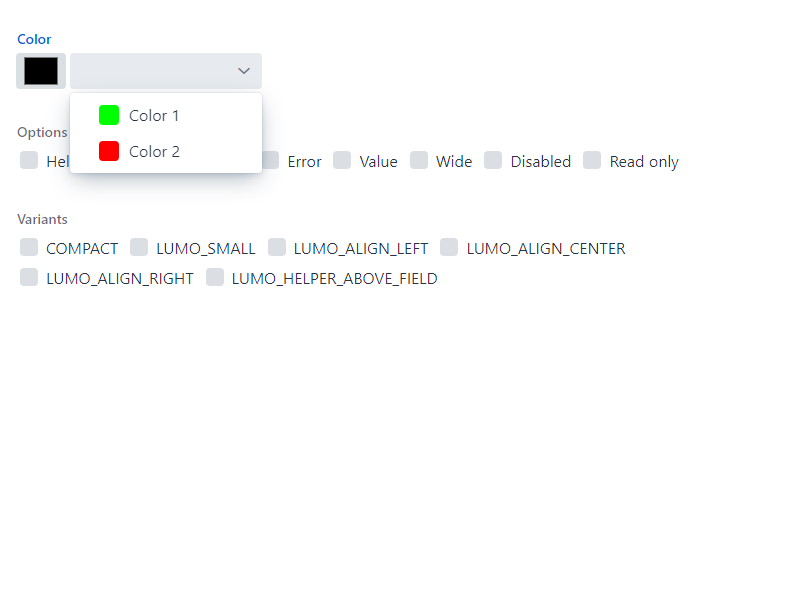
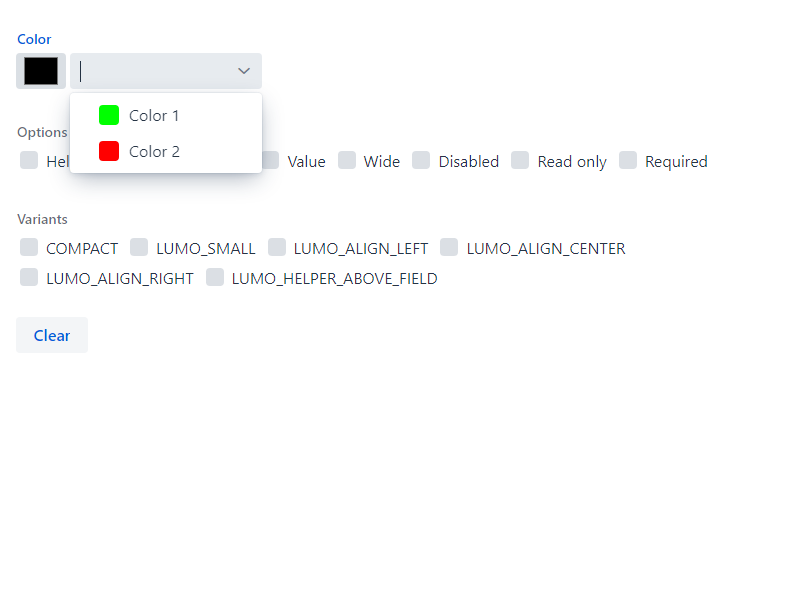
Version 1.2.2: Fixed required indicator

Changed region(s): [[0.5312, 0.24, 0.875, 0.3], [0.3438, 0.24, 0.5, 0.3], [0.0312, 0.54, 0.0938, 0.57]]

diff --git a/src/main/resources/META-INF/resources/frontend/color-picker.ts b/src/main/resources/META-INF/resources/frontend/color-picker.ts
@@ -36,6 +36,8 @@ export class ColorPicker extends ThemableMixin(LitElement) {
   readonly : boolean | undefined = undefined;
   @property({reflect: true})
   disabled : boolean | undefined = undefined;
+  @property({reflect: true})
+  required : boolean | undefined = undefined;
 
   @query("#combobox")
   _comboBox! : ComboBox;
@@ -241,6 +243,7 @@ export class ColorPicker extends ThemableMixin(LitElement) {
           ?readonly=${this.readonly}
           disabled=${ifDefined(this.disabled)}
           invalid=${ifDefined(this.invalid)}
+          ?required=${this.required}
           theme="${ifDefined(this.theme)}">
 
           <div id="wrapper">

diff --git a/src/test/java/org/vaadin/addons/tatu/ColorPickerIT.java b/src/test/java/org/vaadin/addons/tatu/ColorPickerIT.java
@@ -10,6 +10,7 @@ import org.openqa.selenium.NotFoundException;
 import org.openqa.selenium.WebElement;
 import org.openqa.selenium.support.ui.ExpectedConditions;
 
+import com.vaadin.flow.component.button.testbench.ButtonElement;
 import com.vaadin.flow.component.checkbox.testbench.CheckboxGroupElement;
 import com.vaadin.flow.component.combobox.testbench.ComboBoxElement;
 import com.vaadin.flow.component.customfield.testbench.CustomFieldElement;
@@ -65,6 +66,53 @@ public class ColorPickerIT extends AbstractViewTest {
         Assert.assertEquals("theme",
                 colorPicker.getFieldWrapper().getAttribute("theme"));
     }
+
+    @Test
+    public void disabledAttributeGetsPropagated() {
+        options.selectByText("Disabled");
+        Assert.assertEquals("true",
+                colorPicker.getComboBox().getAttribute("disabled"));
+        Assert.assertEquals("true",
+                colorPicker.getPicker().getAttribute("disabled"));
+        Assert.assertEquals("true",
+                colorPicker.getFieldWrapper().getAttribute("disabled"));
+        options.deselectByText("Disabled");
+        clear();
+        Assert.assertEquals(null,
+                colorPicker.getComboBox().getAttribute("disabled"));
+        Assert.assertEquals(null,
+                colorPicker.getPicker().getAttribute("disabled"));
+        Assert.assertEquals(null,
+                colorPicker.getFieldWrapper().getAttribute("disabled"));
+    }
+
+    @Test
+    public void invalidAttributeGetsPropagated() {
+        options.selectByText("Invalid");
+        Assert.assertEquals("true",
+                colorPicker.getComboBox().getAttribute("invalid"));
+        Assert.assertEquals("true",
+                colorPicker.getPicker().getAttribute("invalid"));
+        Assert.assertEquals("true",
+                colorPicker.getFieldWrapper().getAttribute("invalid"));
+        clear();
+        Assert.assertEquals("false",
+                colorPicker.getComboBox().getAttribute("invalid"));
+        Assert.assertEquals(null,
+                colorPicker.getPicker().getAttribute("invalid"));
+        Assert.assertEquals("false",
+                colorPicker.getFieldWrapper().getAttribute("invalid"));
+    }
+
+    @Test
+    public void requiredAttributeGetsPropagated() {
+        options.selectByText("Required");
+        Assert.assertEquals("true",
+                colorPicker.getFieldWrapper().getAttribute("required"));
+        clear();
+        Assert.assertEquals(null,
+                colorPicker.getFieldWrapper().getAttribute("required"));
+    }    
 
     @Test
     public void presetWorks() {
@@ -181,7 +229,7 @@ public class ColorPickerIT extends AbstractViewTest {
                 notification.getText());
         Assert.assertEquals("New value should be null", null,
                 colorPicker.getPropertyString("color"));
-        Assert.assertEquals("New value should be null", "",
+        Assert.assertEquals("Field should be invalid", "",
                 colorPicker.getPropertyString("invalid"));
         colorPicker.focus();
         colorPicker.sendKeys("blue");
@@ -219,6 +267,9 @@ public class ColorPickerIT extends AbstractViewTest {
                 notification.getText());
         Assert.assertEquals("Color property was not set", "#ffffff",
                 colorPicker.getProperty("color"));
+        Assert.assertEquals(
+                "Color property was not propagated to input element", "#ffffff",
+                colorPicker.getPicker().getProperty("value"));
         Assert.assertEquals("Color value was not propagated to picker",
                 "#ffffff", colorPicker.getPicker().getPropertyString("value"));
     }
@@ -226,6 +277,7 @@ public class ColorPickerIT extends AbstractViewTest {
     @Test
     public void setVariantsWorks() {
         variants.selectByText("COMPACT");
+        Assert.assertEquals("compact", colorPicker.getAttribute("theme"));
         ComboBoxElement combo = colorPicker.getComboBox();
         waitForElementInvisible(combo);
     }
@@ -258,7 +310,7 @@ public class ColorPickerIT extends AbstractViewTest {
         Assert.assertTrue(colorPicker.compareScreen(ImageFileUtil
                 .getReferenceScreenshotFile("color-picker-readonly.png")));
         options.deselectByText("Read only");
-        options.selectByText("Valid");
+        clear();
         Assert.assertTrue(colorPicker.compareScreen(
                 ImageFileUtil.getReferenceScreenshotFile("color-picker.png")));
     }
@@ -269,7 +321,7 @@ public class ColorPickerIT extends AbstractViewTest {
         Assert.assertTrue(colorPicker.compareScreen(ImageFileUtil
                 .getReferenceScreenshotFile("color-picker-disabled.png")));
         options.deselectByText("Disabled");
-        options.selectByText("Valid");
+        clear();
         Assert.assertTrue(colorPicker.compareScreen(
                 ImageFileUtil.getReferenceScreenshotFile("color-picker.png")));
     }
@@ -305,6 +357,10 @@ public class ColorPickerIT extends AbstractViewTest {
 
     protected void waitForElementInvisible(final WebElement element) {
         waitUntil(ExpectedConditions.invisibilityOf(element));
+    }
+
+    private void clear() {
+        $(ButtonElement.class).id("clear").click();
     }
 
     private void sleep() {

diff --git a/src/test/java/org/vaadin/addons/tatu/View.java b/src/test/java/org/vaadin/addons/tatu/View.java
@@ -3,9 +3,9 @@ package org.vaadin.addons.tatu;
 import java.util.Arrays;
 import java.util.Set;
 
-import org.vaadin.addons.tatu.ColorPickerVariant;
 import org.vaadin.addons.tatu.ColorPicker.ColorPreset;
 
+import com.vaadin.flow.component.button.Button;
 import com.vaadin.flow.component.checkbox.CheckboxGroup;
 import com.vaadin.flow.component.html.Span;
 import com.vaadin.flow.component.notification.Notification;
@@ -30,30 +30,22 @@ public class View extends VerticalLayout {
                         new ColorPreset("#ff0000", "Color 2")));
 
         colorPicker.addValueChangeListener(event -> {
-            Notification.show(""+event.getValue());
+            Notification.show("" + event.getValue());
             eventCount++;
             events.setText("" + eventCount);
         });
 
-        CheckboxGroup<String> helper = new CheckboxGroup<>("Options");
-        helper.setItems("Helper", "Invalid", "Valid", "Error", "Value", "Wide",
-                "Disabled", "Read only");
-        helper.setId("options");
-        helper.addValueChangeListener(event -> {
+        CheckboxGroup<String> options = new CheckboxGroup<>("Options");
+        options.setItems("Helper", "Invalid", "Error", "Value", "Wide",
+                "Disabled", "Read only", "Required");
+        options.setId("options");
+        options.addValueChangeListener(event -> {
             Set<String> selected = event.getValue();
             if (selected.contains("Helper")) {
                 colorPicker.setHelperText("Use this field to input a color.");
             }
             if (selected.contains("Invalid")) {
                 colorPicker.setInvalid(true);
-            }
-            if (selected.contains("Valid")) {
-                colorPicker.setHelperText(null);
-                colorPicker.setReadOnly(false);
-                colorPicker.setEnabled(true);
-                colorPicker.setValue(null);
-                colorPicker.setWidth(null);
-                colorPicker.setInvalid(false);
             }
             if (selected.contains("Error")) {
                 colorPicker.setErrorMessage("Error message.");
@@ -70,6 +62,23 @@ public class View extends VerticalLayout {
             if (selected.contains("Read only")) {
                 colorPicker.setReadOnly(true);
             }
+            if (selected.contains("Required")) {
+                colorPicker.setRequiredIndicatorVisible(true);
+            }
+        });
+
+        Button clear = new Button("Clear");
+        clear.setId("clear");
+        clear.addClickListener(event -> {
+            options.clear();
+            colorPicker.setHelperText(null);
+            colorPicker.setReadOnly(false);
+            colorPicker.setEnabled(true);
+            colorPicker.setValue(null);
+            colorPicker.setWidth(null);
+            colorPicker.setInvalid(false);
+            colorPicker.setRequiredIndicatorVisible(false);
+
         });
 
         CheckboxGroup<ColorPickerVariant> variants = new CheckboxGroup<>(
@@ -83,6 +92,6 @@ public class View extends VerticalLayout {
             colorPicker.focus();
         });
 
-        add(colorPicker, helper, variants, events);
+        add(colorPicker, options, variants, clear, events);
     }
 }
